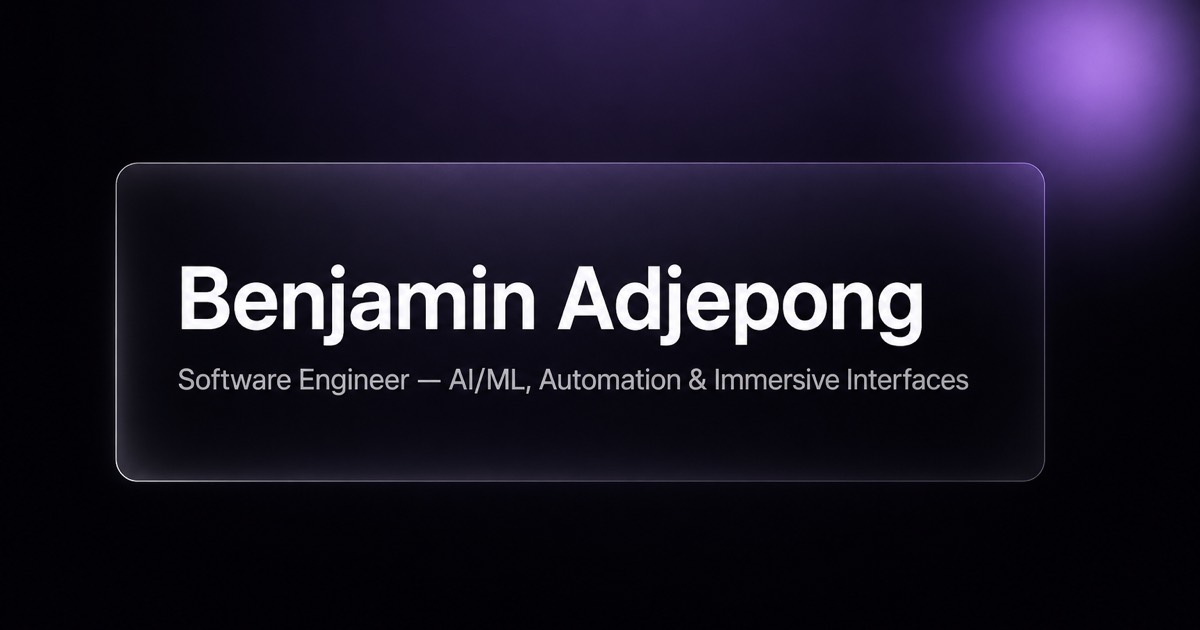
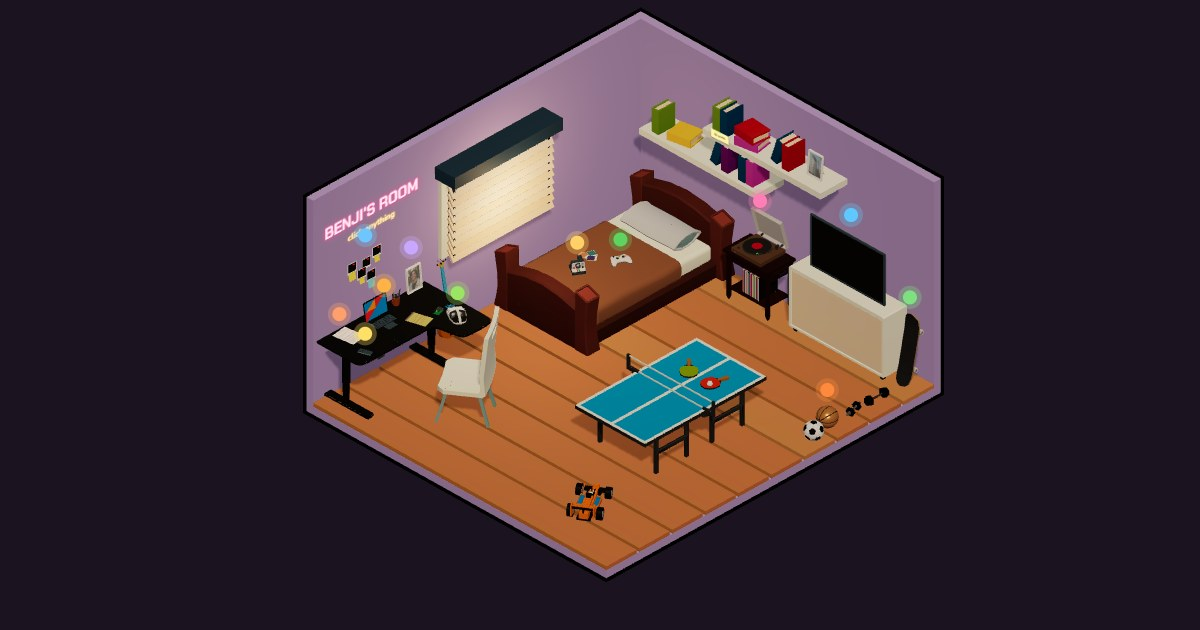
Link preview shows the room, and descriptions match it

diff --git a/index.html b/index.html
@@ -5,13 +5,13 @@
     <meta name="viewport" content="width=device-width, initial-scale=1.0" />
     <meta
       name="description"
-      content="Benji Adjepong, software engineer at Microsoft. A playable portfolio: career mode, projects, hobbies, and how to reach me."
+      content="Benji Adjepong, software engineer at Microsoft. My portfolio is a 3D room you can click around: career on the laptop, projects in the VR headset, resume on the desk."
     />
     <meta property="og:type" content="website" />
     <meta property="og:title" content="Benji's Room" />
     <meta
       property="og:description"
-      content="Software engineer at Microsoft. Press start to explore career mode, projects, and side quests."
+      content="Software engineer at Microsoft. Click around my room: career on the laptop, projects in the VR headset, resume on the desk."
     />
     <meta property="og:url" content="https://benjivt.github.io/" />
     <meta property="og:image" content="https://benjivt.github.io/og-preview.jpg" />
@@ -21,7 +21,7 @@
     <meta name="twitter:title" content="Benji's Room" />
     <meta
       name="twitter:description"
-      content="Software engineer at Microsoft. Press start to explore career mode, projects, and side quests."
+      content="Software engineer at Microsoft. Click around my room: career on the laptop, projects in the VR headset, resume on the desk."
     />
     <meta name="twitter:image" content="https://benjivt.github.io/og-preview.jpg" />
     <link rel="preconnect" href="https://fonts.googleapis.com" />
